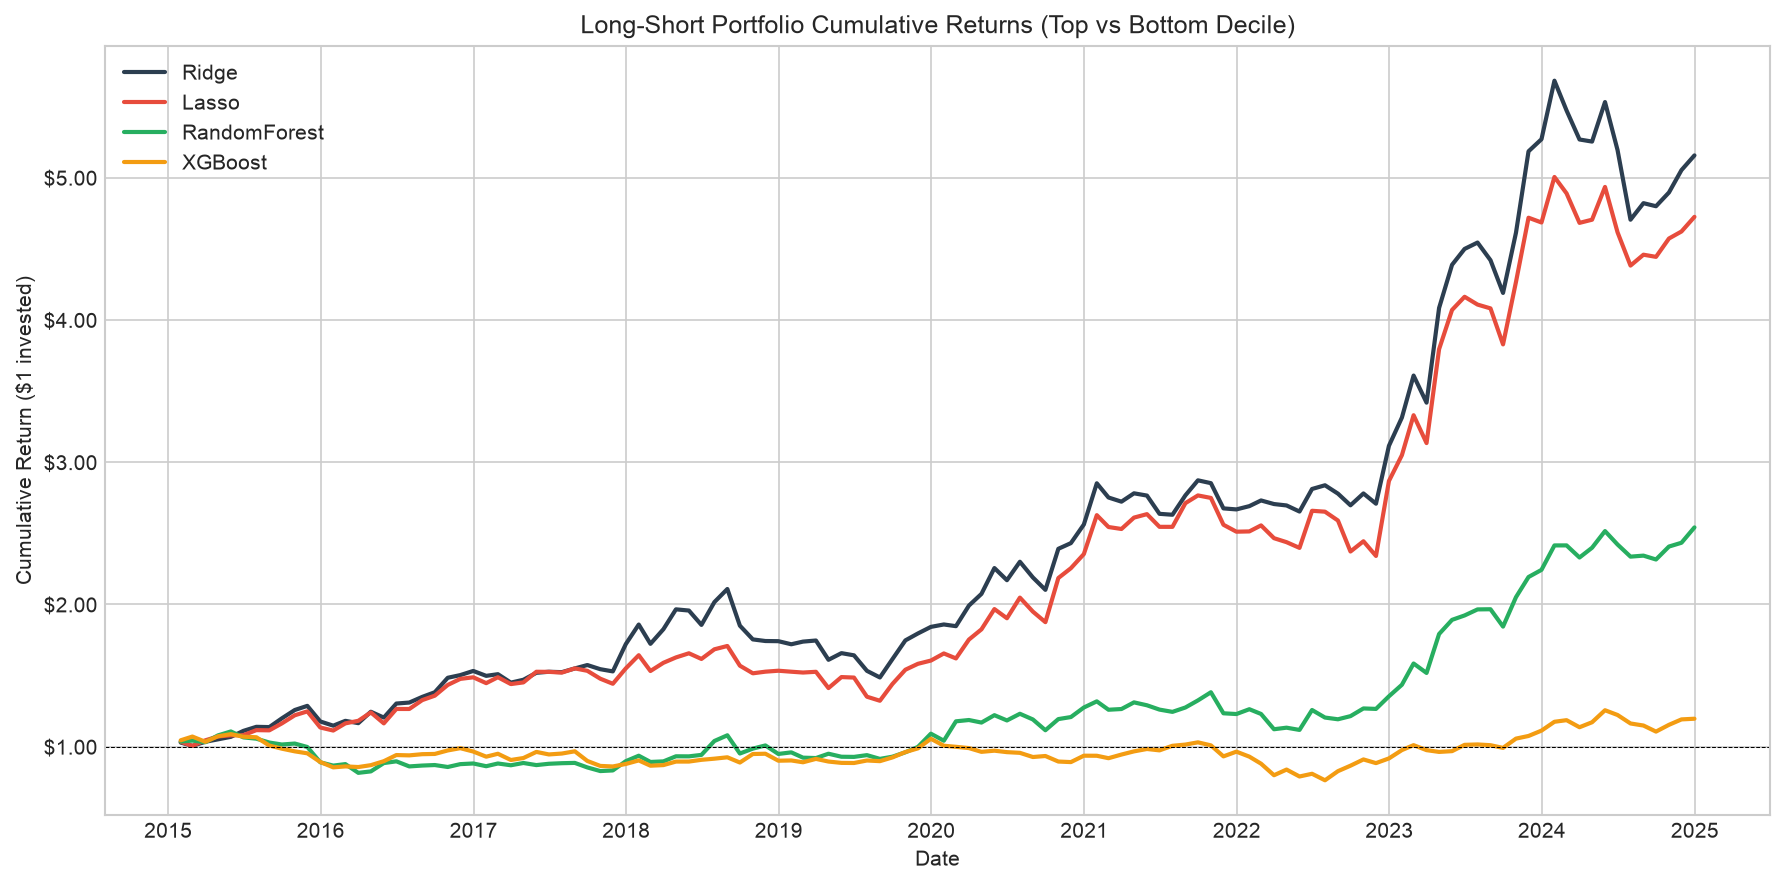
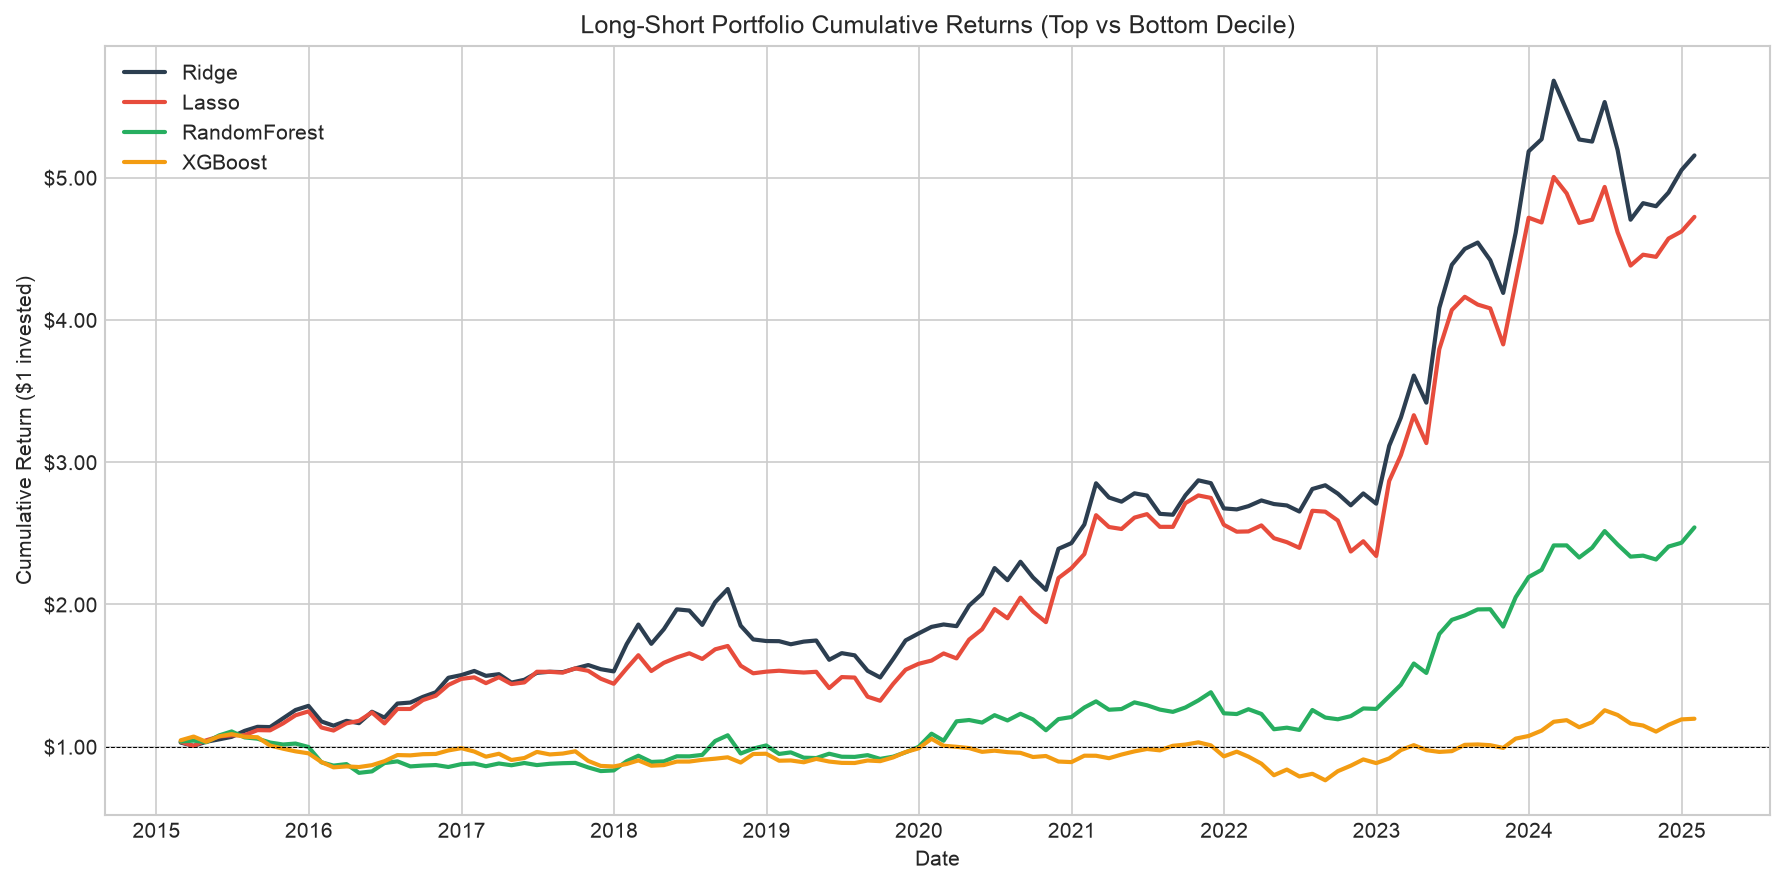
Fix date alignment of factor regressions (Audit 3)

diff --git a/src/risk_analysis.py b/src/risk_analysis.py
@@ -151,7 +151,7 @@ def build_legs(
     model_name: str,
     n_quantiles: int = eval_cfg.n_quantiles,
 ) -> pd.DataFrame:
-    """Monthly long-leg, short-leg and long-short returns for one model."""
+    """Monthly long-leg, short-leg and long-short returns for one model, indexed by return month (t+1)."""
     rows = []
     for d, g in predictions.groupby("date"):
         if len(g) < n_quantiles:
@@ -166,7 +166,10 @@ def build_legs(
         sh = g.loc[g["q"] == 1, "realized"].mean()
         rows.append({"date": d, "long": lo, "short": sh, "long_short": lo - sh})
 
-    return pd.DataFrame(rows).set_index("date").sort_index()
+    out = pd.DataFrame(rows).set_index("date").sort_index()
+    out.index = out.index + pd.offsets.MonthEnd(1)
+    out.index.name = "date"
+    return out
 
 
 def worst_months(legs: pd.DataFrame, n: int = 3) -> pd.DataFrame:

diff --git a/src/evaluation.py b/src/evaluation.py
@@ -121,6 +121,10 @@ def build_long_short_portfolio(
       3. Long portfolio: equal-weight average return of top decile
       4. Short portfolio: equal-weight average return of bottom decile
       5. Long-short return = long - short
+
+    Predictions are formed at the end of month t and earn the return of month t+1,
+    so the output is indexed by the month in which the return is earned (t+1).
+    Factor regressions, sub-periods and worst months all rely on that label.
     """
     portfolio_returns = []
 
@@ -157,7 +161,10 @@ def build_long_short_portfolio(
 
         portfolio_returns.append(row)
 
-    return pd.DataFrame(portfolio_returns).set_index("date")
+    out = pd.DataFrame(portfolio_returns).set_index("date")
+    out.index = out.index + pd.offsets.MonthEnd(1)
+    out.index.name = "date"
+    return out
 
 
 def portfolio_summary(

diff --git a/src/transaction_costs.py b/src/transaction_costs.py
@@ -196,6 +196,7 @@ def break_even_analysis(
         # Get positions and turnover
         positions = get_portfolio_positions(predictions, model_name)
         turnover = compute_turnover(positions)
+        turnover.index = turnover.index + pd.offsets.MonthEnd(1)
 
         turnover_stats[model_name] = {
             "mean": turnover.mean(),

diff --git a/README.md b/README.md
@@ -2,39 +2,42 @@
 
 **Can machine learning models capture nonlinear relationships between stock characteristics and future returns, beyond what linear models achieve?**
 
-Monthly cross-sectional US equity return prediction with Ridge, Lasso, Random Forest, and XGBoost. Every result below comes from a fully nested pipeline: hyperparameters are selected by an inner walk-forward on training data only, evaluation uses an outer expanding walk-forward, alphas are benchmarked against the Carhart 4-factor model with Newey-West standard errors, and transaction costs use realized turnover. The project also documents two self-audits (a look-ahead bias and a degenerate-selection bug) whose lessons matter as much as the numbers.
+Monthly cross-sectional US equity return prediction with Ridge, Lasso, Random Forest, and XGBoost. Every result below comes from a fully nested pipeline: hyperparameters are selected by an inner walk-forward on training data only, evaluation uses an outer expanding walk-forward, alphas are benchmarked against the Carhart 4-factor model with Newey-West standard errors, and transaction costs use realized turnover. The project also documents three self-audits (a look-ahead bias, a degenerate-selection bug, and a one-month misalignment in the factor regressions) whose lessons matter as much as the numbers.
 
 ## Headline Results (out-of-sample 2015–2024, 120 months)
 
 | Model | Mean IC (t) | Sharpe gross | Sharpe net 15bps | Turnover | Carhart alpha (t, HAC) | Break-even |
 |-------|------------|--------------|------------------|----------|------------------------|------------|
-| **Ridge** | **0.042 (2.45)** | **1.00** | **0.94** | 20.6% | **17.9% (2.86)** | >100 bps |
-| Lasso | 0.041 (2.25) | 0.92 | 0.87 | 18.2% | 17.8% (2.77) | >100 bps |
-| Random Forest | 0.023 (1.60) | 0.65 | 0.52 | 50.8% | 11.6% (1.84) | 85 bps |
-| XGBoost | 0.016 (1.28) | 0.21 | -0.01 | 60.0% | 2.8% (0.62) | 15 bps |
+| **Ridge** | **0.042 (2.45)** | **1.00** | **0.94** | 20.6% | **14.3% (2.60)** | >100 bps |
+| Lasso | 0.041 (2.25) | 0.92 | 0.87 | 18.2% | 14.6% (2.79) | >100 bps |
+| Random Forest | 0.023 (1.60) | 0.65 | 0.52 | 50.8% | 6.8% (1.30) | 85 bps |
+| XGBoost | 0.016 (1.28) | 0.21 | -0.01 | 60.0% | -0.2% (-0.04) | 15 bps |
 
 ### Key Findings
 
-1. **The alpha survives the momentum control.** The feature set includes momentum 12-1 and short-term reversal, so the natural objection is that the "alpha" is just UMD exposure. It is not: Ridge's UMD beta is 0.16 with t = 1.43 (insignificant), and moving from FF3 to Carhart costs only 0.8 points of alpha (18.7% to 17.9%, t_HAC = 2.86). The model's ranking power comes primarily from the low-volatility and lottery (MAX) anomalies, visible in the feature importances, not from momentum.
+1. **The alpha survives the momentum control, and the book is long volatility.** The feature set includes momentum 12-1 and short-term reversal, so the natural objection is that the "alpha" is just UMD exposure. It is not: Ridge's UMD beta is -0.16 with t = -0.90, and adding UMD moves the alpha from 13.5% (FF3) to 14.3% (Carhart, t_HAC = 2.60). The book is not market-neutral, though: Carhart betas are 0.36 on the market (t = 3.5) and 0.44 on SMB. Its ranking loads positively on realized volatility and MAX (rank correlations of 0.88 and 0.93), so it is long volatile, lottery-like names and short defensives, the opposite sign to the published low-volatility and MAX anomalies. In a current-constituent universe, that is exactly where survivorship bias bites hardest (see Known Limitations).
 2. **Both linear models beat both tree models; the two linear models are indistinguishable from each other.** Ridge (1.00) vs Lasso (0.92) is well inside sampling error (Lo-2002 SE ≈ 0.32 each; 95% CIs [0.36, 1.63] and [0.29, 1.55] overlap almost entirely). The linear-vs-tree gap is the robust statement.
-3. **XGBoost has no deployable edge**: net of 15 bps its Sharpe is -0.01 and its break-even is exactly the cost assumption (15 bps). Random Forest's Carhart alpha is not significant at 5% (t = 1.84) and its Sharpe is entirely concentrated post-2020 (0.19 pre / 1.01 post), a regime dependence the linear models do not share (Ridge: 0.83 / 1.14).
+3. **XGBoost has no deployable edge**: net of 15 bps its Sharpe is -0.01 and its break-even is exactly the cost assumption (15 bps). Random Forest's Carhart alpha is not significant at 5% (t = 1.30) and its Sharpe is entirely concentrated post-2020 (0.06 pre / 1.08 post), a regime dependence the linear models do not share (Ridge: 0.81 / 1.15).
 4. **Symmetric nested tuning did not rescue the trees.** All four models were tuned by the same inner walk-forward on the same folds. The inner CV drives every model toward maximal regularization (Ridge to the heavy-shrinkage plateau, RF to its most-regularized corner in 9/10 folds), which is itself evidence about the signal-to-noise ratio.
 5. **Out-of-sample R-squared is ~0.1% for the linear models and negative for the trees** — the textbook shape of monthly equity prediction: negligible level predictability, monetizable ranking ability (positive IC).
 
-## Two Self-Audits
+## Three Self-Audits
 
-### Audit 1 — Look-ahead via a time-constant feature
+### Audit 1: Look-ahead via a time-constant feature
 An early version included a static log-market-cap feature (today's cap applied to all historical dates). A feature constant in time per ticker is a **ticker identifier**: trees can split on it and memorize which stocks turned out to be the 2015–2024 winners, since today's megacap status embeds exactly that rally. Removing it halved Random Forest's IC (0.054 to 0.027) and erased XGBoost's alpha, while linear models barely moved — they could only extract a bounded "long megacaps" tilt, not per-stock memorization. Walk-forward validation cannot catch this class of leak: the split was correct, the feature construction was contaminated. Note that split-based feature importance also failed to flag it (the feature ranked last in RF's Gini importance): ablation, not importance, is the leak detector.
 
-### Audit 2 — Degenerate selection in nested CV
+### Audit 2: Degenerate selection in nested CV
 The first nested-CV run let Lasso select alpha = 0.01 on early folds — a penalty that zeroes every coefficient. Constant predictions cannot rank a cross-section: decile assignment degenerated to row order (an accidental alphabetical portfolio, visible as a two-year stretch of zero turnover followed by a 100% turnover spike). Fix: a **feasibility rule** — any configuration producing (near-)constant predictions on any inner validation year is disqualified (scored -inf), not treated as a "zero-signal" candidate. A strategy that cannot form deciles is outside the feasible set.
+
+### Audit 3: Date alignment of the factor regressions
+Predictions are formed at the end of month t and earn the return of month t+1, but the first version kept the formation date on the return series and regressed each return on the factors of month t. Regressing on last month's factors gives near-zero betas, so the reported "alpha" was close to the raw mean return (Carhart 17.9%, market beta -0.02, R-squared 0.02). The giveaway was that R-squared: a book sorted on volatility is not beta-neutral by accident, and the long leg's correlation with the market goes from -0.13 to 0.87 once shifted by one month. Fix: every portfolio, leg and turnover series is now indexed by the month in which the return is earned. Corrected Ridge Carhart alpha: 14.3% (t_HAC = 2.60), market beta 0.36. Sharpe, IC, turnover and costs are unaffected.
 
 ## Methodology
 
 ### Universe & Data
 - **Universe:** S&P 100 constituents (101 tickers after dropping the GOOG duplicate share class). Survivorship bias acknowledged: current list, not point-in-time constituents.
 - **Data snapshot:** yfinance, downloaded June 2026; historical adjustments are retroactive, so reruns may differ slightly. Kenneth French Data Library for Mkt-RF, SMB, HML, RF, and UMD.
-- **Period:** 2005–2025 monthly; out-of-sample 2015–2024. Panel: 23,232 stock-month observations, 12,084 OOS predictions.
+- **Period:** 2005–2025 monthly; out-of-sample 2015–2024. Panel: 22,993 stock-month observations, 11,964 OOS predictions.
 - **Cleaning:** extreme returns (|r| > 200%) flagged; cross-sectional winsorization at 1%/99% per month.
 
 ### Features (cross-sectionally standardized each month)
@@ -57,16 +60,17 @@ The first nested-CV run let Lasso select alpha = 0.01 on early folds — a penal
 
 ### Evaluation
 - **IC:** monthly Spearman rank correlation, predicted vs realized.
-- **Portfolios:** long top decile, short bottom decile, equal-weight, monthly rebalance.
+- **Portfolios:** long top decile, short bottom decile, equal-weight, monthly rebalance. Each return is dated by the month in which it is earned (formation month + 1), and factor regressions use the factors of that same month.
 - **Factor models:** FF3 and Carhart 4-factor, Newey-West (HAC, 6 lags) standard errors, OLS t-stats reported alongside for transparency.
 - **Costs:** realized turnover from position diffs; 15 bps one-way charged round-trip on traded fraction; break-even swept 0–100 bps.
 - **Robustness:** OOS R-squared, Lo (2002) Sharpe confidence intervals, sub-period split (2015–2019 vs 2020–2024), worst months with leg attribution, long/short leg-split alphas.
 
 ## Risk Profile (Ridge, headline model)
 
-- **Worst months:** Sep 2018 (-12.2%, long leg -14.3% in the Q4-2018 selloff onset), Jul 2024 (-9.4%, the bottom decile rallied +7.5% in the July-2024 rotation — the short leg bleeding in a violent style rotation, not the long failing), Dec 2015 (-8.5%).
-- **Max drawdown:** -29.5%, troughing Aug 2019 — the 2018–2019 factor chop, not the COVID crash. A beta-neutral cross-sectional book is hurt by rotations, not by the crash itself.
-- **Leg split (Carhart, HAC):** long leg +29.9%/yr alpha (t = 5.34); the short leg's names themselves earn +12.0%/yr alpha (t = 2.89), i.e. shorting them costs alpha. The edge is long-side dominant — the favorable case for borrow economics, and an argument that a long-only or 130/30 implementation would likely improve net-of-cost Sharpe.
+- **Worst months:** Oct 2018 (-12.2%, long leg -14.3% as the market fell 7.6%), Aug 2024 (-9.4%, the defensive short leg rallied +7.5%), Jan 2016 (-8.5%, long leg -12.8%).
+- **Max drawdown:** -29.5%, from September 2018 to September 2019, ending with the September 2019 momentum-to-value rotation. February and March 2020 are not among the worst months (+0.9% and -0.6%).
+- **Leg split (Carhart, HAC):** long leg +12.2%/yr alpha (t = 3.24, market beta 1.19); short leg -2.1%/yr (t = -0.84), so shorting those names adds a little, insignificantly. The edge sits in the long leg.
+- **Exposure:** the long decile is mostly volatile technology and consumer names (AMD, TSLA, NVDA, NFLX), the short decile staples, utilities and telecom (KO, PG, JNJ, PEP, VZ).
 
 ## Figures
 
@@ -110,11 +114,12 @@ python main.py            # ~10 min (nested CV); --skip-data to reuse parquet
 
 | Limitation | How to address |
 |-----------|----------------|
-| Survivorship bias (current S&P 100) | CRSP/Compustat point-in-time constituents |
+| Survivorship bias (current S&P 100), amplified by a long-volatility book: NVDA, TSLA and AMD make 43% of long-leg returns, and the Sharpe falls to 0.62 without them | CRSP/Compustat point-in-time constituents |
 | No size/value features (dropped for leakage) | Point-in-time fundamentals |
 | Flat 15 bps cost | Per-stock impact model (Almgren-Chriss) |
 | ~10 names per decile | Larger universe; quintile robustness check |
-| Equal-weight, no sector neutrality | Constrained optimizer |
+| Equal-weight, no sector or beta neutrality (market beta 0.36) | Constrained optimizer |
+| P&L computed on winsorized returns (conservative: Ridge Sharpe is 1.10 on raw returns) | Winsorize the training target only |
 
 ## References
 
